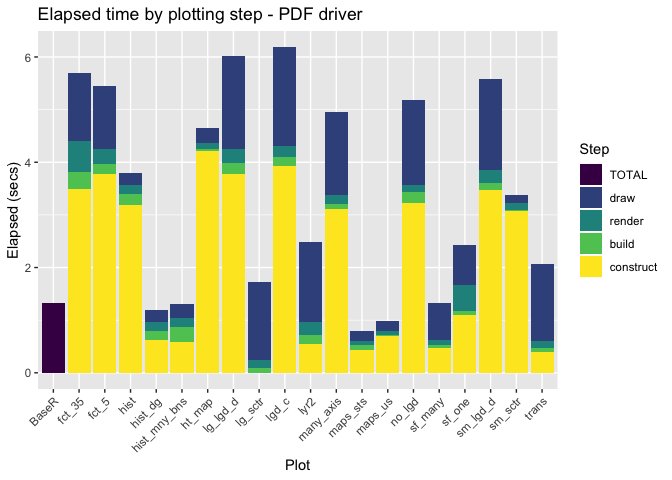
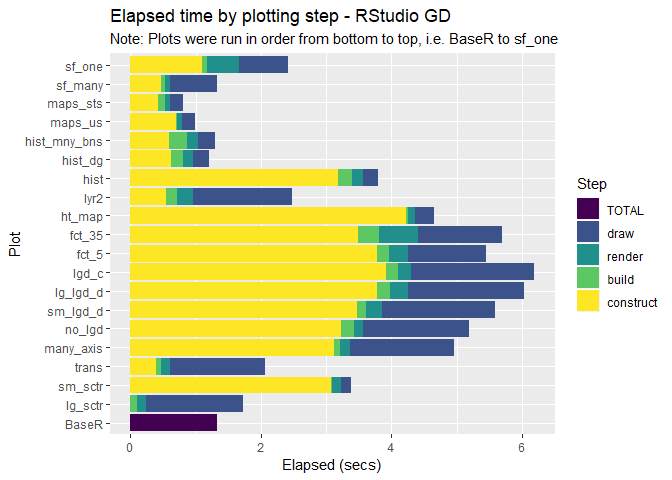
Minor edits to highlights

diff --git a/Highlights.md b/Highlights.md
@@ -7,9 +7,16 @@ Notable results
 -   Base scatter of diamonds is about 6.25 times faster than ggplot2.
 -   The addition of a loess smoother is an outlier, increasing the time to plot &gt;25sec. This is likely a GAM issue, not caused by the simple addition of a 3rd layer in ggplot. Adding a second layer is no slower than simply plotting the 50K scatter plot
 -   Surprisingly, one large sf\_polygon is slower to plot than 100 small sf\_polygons with geom\_sf
--   Heavy facetting has increases processing time of build, render, and draw steps
+-   Heavy facetting increases processing time of build, render, and draw steps
 
 ![](Highlights_files/figure-markdown_github/unnamed-chunk-1-1.png)
+
+### Graphic Device matters
+
+-   Even with the addition of a `grid.new()` call in `tidy_benchmark`, Rstudio GD seems to drag and affect the estimates of construct when combined with `map`
+-   This `construct` inflation does not happen if you run each `tidy_benchplot` call individually and as such it's likely actually measuring the rgd doing its drawing from the previous plot.
+
+![](Highlights_files/figure-markdown_github/unnamed-chunk-3-1.png)
 
 ### Plots Tested
 
@@ -36,29 +43,3 @@ Notable results
 | maps\_sts      | maps, geom\_polygon, states                    |
 | sf\_many       | geom\_sf, 100 small polygons                   |
 | sf\_one        | geom\_sf, one large multi-polygon              |
-
-### Driver matters
-
--   Even with the addition of a `grid.new()` call in `tidy_benchmark`, Rstudio GD seems to drag and affect the estimates of construct when combined with `map`
--   This `construct` inflation does not happen if you run each `tidy_benchplot` call individually.
--   Addionally draw times for the RStudio GD, take and average of 5.66 times longer then calling the pdf driver instead.
-
-``` r
-mean_rgd <- rgd_timing %>%
-  group_by(step, plot_type) %>%
-  mutate(mean = mean(elapsed), driver = "RGD")
-mean_pdf <- pdf_timing %>%
-  group_by(step, plot_type) %>%
-  mutate(mean = mean(elapsed), driver = "PDF")
-bind_rows(mean_rgd, mean_pdf) %>%
-  group_by(driver) %>%
-  filter(step == "draw") %>%
-  summarise(mean_draw = mean(elapsed))
-```
-
-| driver |  mean\_draw|
-|:-------|-----------:|
-| PDF    |      0.1824|
-| RGD    |      1.0047|
-
-![](Highlights_files/figure-markdown_github/unnamed-chunk-4-1.png)
